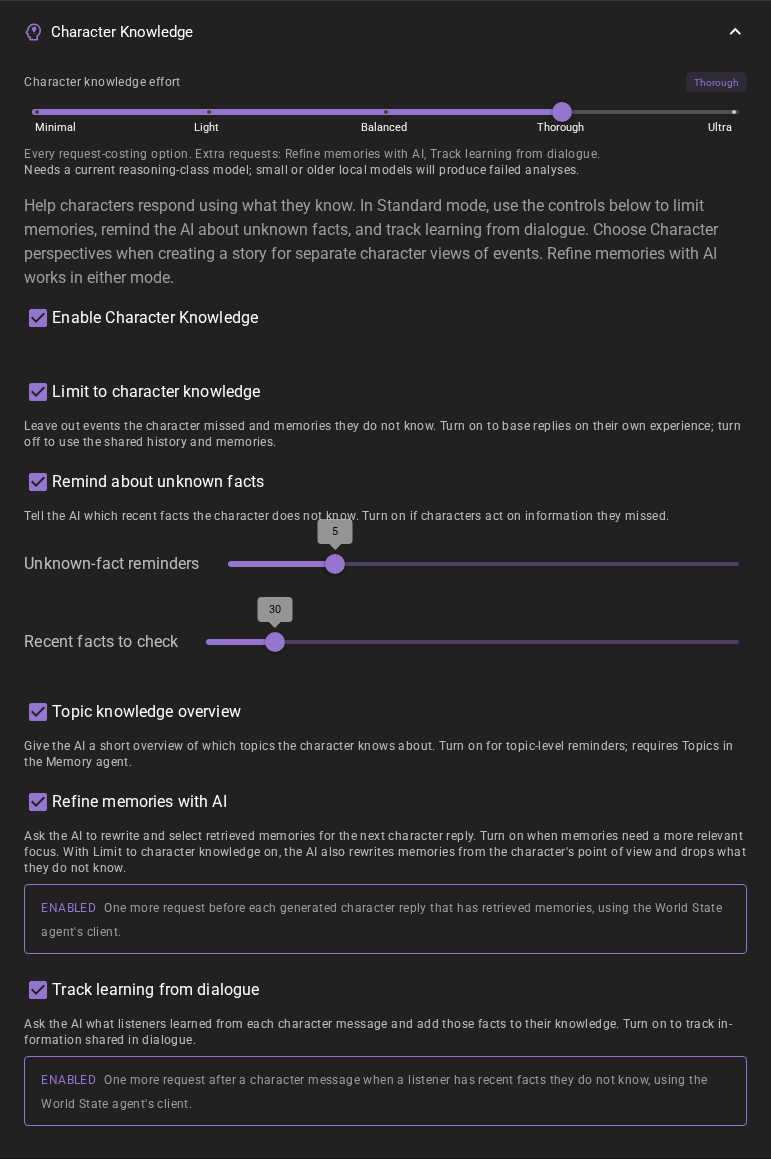
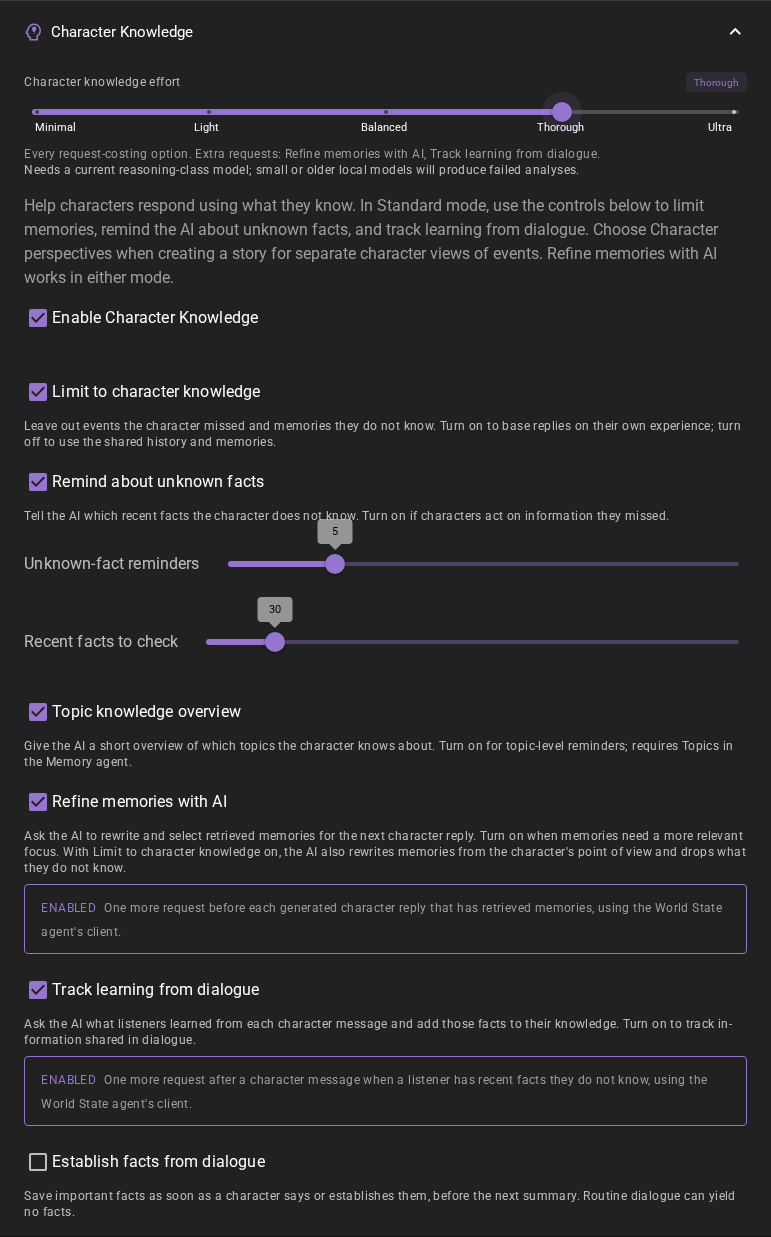
Docs: How character knowledge works page and knowledge docs pass (#514) (#517)
* docs: How character knowledge works page and knowledge docs pass (#514)

* docs: linked facts wording for the how-it-works page (#514, follows #520)

* docs: trim the how-it-works page to half its prose; Details expanders for power-user detail (#514)

diff --git a/docs/user-guide/world-editor/knowledge-how-it-works.md b/docs/user-guide/world-editor/knowledge-how-it-works.md
@@ -1,0 +1,169 @@
+# How character knowledge works
+
+Characters know what they were in the scene for, what you allow them to know, and what they were told. This page shows that flow, turn by turn, in both story modes. Settings are named as the app shows them; the [Knowledge](/talemate/user-guide/world-editor/knowledge/), [Conversation](/talemate/user-guide/agents/conversation/settings/#character-knowledge), [Summarizer](/talemate/user-guide/agents/summarizer/settings/#fact-chronology) and [Memory](/talemate/user-guide/agents/memory/settings/#retrieval) pages describe them, and the [knowledge hub](/talemate/user-guide/world-state/#knowledge-hub) gathers them in one menu.
+
+## The pieces
+
+- **Presence.** Every line records who was in the scene; a chapter summary records everyone who was there for any part of it.
+- **Facts.** Short statements the Summarizer records from a chapter, each **Routine (1)**, **State (2)** or **Milestone (3)**. Edit them in [History](/talemate/user-guide/world-editor/history/#facts).
+- **Known by.** Every sheet entry and world entry is known by everyone, only its owner (**Nobody** for a world entry), or specific characters. See [Visibility](/talemate/user-guide/world-editor/knowledge/#visibility).
+- **The character's knowledge.** All of the above plus what the story taught them; the [Knowledge tab](/talemate/user-guide/world-editor/knowledge/#topics-and-coverage) lists it.
+
+## Standard mode: one line is said
+
+Knowledge follows presence. Two switches add learning from dialogue; the chapter summary records facts.
+
+```mermaid
+flowchart TD
+    A["A character says a line"] --> B["The line joins the story,<br/>with everyone who was in the scene"]
+    B --> C{"Track learning from dialogue on?"}
+    C -- "no" --> Z["Nothing more this turn"]
+    C -- "yes" --> D{"Does a listener have recent<br/>recorded facts they do not know?"}
+    D -- "no" --> Z
+    D -- "yes" --> E["One request: which of those facts<br/>did the line make plain to each listener?"]
+    E --> F["Each listener now knows those facts"]
+    C -- "yes, and Establish facts<br/>from dialogue on" --> G["The same request also records<br/>new facts the line established"]
+    G --> H["New facts appear in History<br/>under Dialogue facts"]
+
+    S["Later: the Summarizer<br/>summarizes the chapter"] --> T{"Extract facts on?"}
+    T -- "no" --> Y["Summary only"]
+    T -- "yes" --> U["Up to 12 facts worth remembering,<br/>each Routine, State or Milestone"]
+    U --> V{"Does a fact repeat one<br/>already recorded?"}
+    V -- "yes" --> W["The recorded fact is refreshed:<br/>it counts as restated now,<br/>and everyone present learns it"]
+    V -- "no" --> X["A new fact, known to<br/>everyone who was present"]
+    X --> X2["A fact that updates an earlier one<br/>carries a link to that fact"]
+```
+
+**The line joins the story** with the list of who was in the scene, speaker included. Everyone on the list has heard it; nobody else has. A line with no presence list counts as heard by everyone.
+
+**Track learning from dialogue** (off by default) gathers the recent facts each listener does not know. If there are none, nothing is sent. Otherwise one request asks which of them the line made plain to each listener; those listeners now know them. A hint or a question does not count.
+
+**Establish facts from dialogue** (shows while Track learning is on) makes the same request also record new facts the line established, after every character line. They appear in History under **Dialogue facts**.
+
+**The chapter summary** records facts when **Extract facts** is on: up to twelve, only facts whose loss could make a later scene go wrong. Everyone present for the chapter knows them.
+
+**Restatements.** A fact that repeats a recorded one, within the **Fact matching tolerance**, is not stored twice: the recorded fact counts as restated now, so it is [fresh again](#facts-age), and anyone present learns it.
+
+**Linked facts.** A fact that updates an earlier one carries a link to it; History shows an arrow chip. A character who knows the newer fact no longer gets the older one in their reply; one who has not learned it still does. History and the Knowledge tab keep every fact and link.
+
+??? note "Details"
+    - A presence list is missing on lines from stories written before presence was recorded, and on lines said while no character is active; a summary that contains such a line is known to everyone.
+    - The speaker learns nothing from their own line. Learned facts leave the listener's unknown-fact reminders and enter their memory.
+    - A restatement keeps the fact's text, importance and original time.
+    - With **Show formerly clause** on (default, under Fact chronology), the newer fact carries the fact it updated as a short *formerly* clause of at most 240 characters, with no second time marker and no extra request. In a chain, only the last step shows.
+
+## Character perspectives mode: one line is said
+
+After every passage, Talemate writes what each character perceived, and replies are built from those views.
+
+```mermaid
+flowchart TD
+    A["A passage is finished:<br/>a character line, a player line or narration"] --> B["The passage joins the story,<br/>with everyone who was in the scene"]
+    B --> C["The Summarizer asks:<br/>what did each character perceive?<br/>One request for all of them"]
+    C --> D{"Is every character's view valid?"}
+    D -- "yes" --> E["Each character's view of the passage<br/>is stored beside it"]
+    D -- "no, and Automatically<br/>repair analysis on" --> F["One more request for<br/>the missing views only"]
+    F --> G{"Valid now?"}
+    G -- "yes" --> E
+    G -- "no" --> H["Generation error dialog:<br/>Retry, or stop.<br/>Nothing falls back to the reader's text"]
+    D -- "no" --> H
+    E --> I["The next reply reads the story<br/>through the character's own views"]
+
+    K["Known by on entries decides<br/>what a reply and a memory search<br/>may draw on"] -.-> I
+    L["Disclosures: Establish character knowledge<br/>gives one character information now"] -.-> C
+    E -.-> M["The character's memory holds<br/>only what they have evidence for"]
+```
+
+**The passage joins the story** with who was in the scene. Character lines, player lines, narration and tracker answers are passages; director notes are not.
+
+**What did each character perceive?** One request covers every active character and everyone present. Each gets a standalone view of what they could perceive, or an omitted view if nothing. The reader keeps the complete prose.
+
+**Repair and Retry.** When a view is missing or unreadable, **Automatically repair analysis** (on by default) sends one more request for it. If it still fails, the generation error dialog offers **Retry**; Cancel or Ignore stops the dependent generation. A character never falls back to the reader's text.
+
+**Private entries.** **Known by** decides which entries a reply and a memory search can draw on. The analysis still reads every sheet as background, so keep real secrets out of the scene description, the story intention and the sheet text.
+
+**Disclosures.** **Establish character knowledge** in the Knowledge tab gives a character selected information, or a whole entry, at this point in the story, without inventing dialogue. The director can do the same.
+
+**What the character remembers.** Only what they have evidence for: their views, summaries and disclosures, the entries they may know, and the facts drawn from their views. A memory search cannot grant more.
+
+**Retired here:** Track learning from dialogue, Establish facts from dialogue, Remind about unknown facts, Topic knowledge overview and Match known facts. Block rules cannot be created. **Refine memories with AI** stays.
+
+??? note "Details"
+    - The request carries what each character already knows from the previous passages and their disclosures, so a view never invents an observation to justify knowledge.
+    - When a chapter is summarized, each character gets a summary from their own views, once their views of the chapter are complete. Characters with identical views share one request. Facts from such a summary belong to those characters, and linked facts work as in Standard mode.
+    - With **Extract facts** on, a disclosure also becomes searchable facts.
+
+## What a character's reply is built from
+
+```mermaid
+flowchart LR
+    R["The character's reply"]
+    S["Character sheets<br/>Only entries the character may know<br/>(Known by, Allow / Block rules)"] --> R
+    H["The story so far"] --> R
+    H1["Standard: the shared story.<br/>With Limit to character knowledge on,<br/>the parts they missed become a gap line:<br/>(Name was elsewhere for 2 Days)"] --> H
+    H2["Character perspectives:<br/>their own views, their summaries<br/>and their disclosures, in story order"] --> H
+    M["Memories<br/>Only what the character may know,<br/>ranked by relevance and Recency weight,<br/>repeats dropped by the Diversity threshold,<br/>Cross-encoder rerank optional"] --> R
+    M1["Refine memories with AI (optional):<br/>one request rewrites the memories<br/>from the character's point of view"] --> M
+    F["Facts (Standard only)<br/>What the character does not know:<br/>Remind about unknown facts<br/>What they are aware of:<br/>Topic knowledge overview"] --> R
+    A["Scene Analysis (Standard only)<br/>The Summarizer's analysis lists the<br/>character's known and unknown facts"] --> R
+    T["Fact chronology<br/>Older facts fade unless they are<br/>important, restated, or about<br/>someone in the scene"] --> F
+    T --> M
+    T --> A
+```
+
+**Character sheets.** Only the entries the character may know; in Standard mode an Allow rule adds one and a Block rule removes one.
+
+**The story so far.** Standard mode uses the shared story; with **Limit to character knowledge** on, what the character missed becomes one gap line, such as *(Edwin was elsewhere for 2 Days)*. Character perspectives mode uses their own views, chapter summaries and disclosures, in story order.
+
+**Memories.** The Memory agent finds what fits the last lines among what the character may know, ranked by relevance; **Recency weight** moves newer ones up, the **Diversity threshold** drops near-repeats, and **Cross-encoder rerank** (off by default) reorders the top results locally. The result is cached until the story or the memory changes. **Refine memories with AI** adds one request that keeps the useful memories, rewritten from the character's point of view.
+
+**Facts and reminders (Standard only).** **Remind about unknown facts** lists the recent facts the character does not know, so the AI keeps them from acting on those. **Topic knowledge overview** states which topics they know all, some or nothing of. The Summarizer's Scene Analysis, when on for conversation, lists their known and unknown facts. No request is added.
+
+### Facts age
+
+A fact scores its importance divided by one plus its age over its half-life: **Milestone (3)** halves every 90 days, **State (2)** every 14, **Routine (1)** every 2, counted from the last restatement. Facts newer than the **Recent facts window** (3 days) always stay eligible; older ones need a score above the **Older facts score floor** (0.5) or must mention a character in the scene. Rendered facts carry a time such as *(21 Days ago)*. Aging never erases knowledge; the settings sit under [Fact chronology](/talemate/user-guide/agents/summarizer/settings/#fact-chronology).
+
+??? note "Details"
+    - Director notes and the character's own state notes stay in the story part.
+    - In Standard mode, **Match known facts** admits a memory of a missed event when it closely matches a fact the character knows. **Entity lookup** places a named absent character's description first. Editing a memory, a world entry or a character detail refreshes the cache.
+    - The unknown-fact list takes the newest **Recent facts to check** facts, ranks them by chronology and cuts to **Unknown-fact reminders**. The topic overview needs Topics in the Memory agent.
+    - With the defaults, a fact about absent people leaves the prompts after 3 days (Routine), 42 (State) or 450 (Milestone). The effort slider leaves these settings alone.
+
+## The effort slider and what it switches
+
+The **Character knowledge effort** slider sets the knowledge switches of the Conversation, Summarizer and Memory agents together; each stop adds to the one below it. It sits in the knowledge hub's **Thoroughness** section, the **Create New Story** dialog and the Conversation agent's settings. Change a switch by hand and it shows **Custom**.
+
+```mermaid
+flowchart LR
+    subgraph "Character perspectives"
+        direction TB
+        P1["Minimal<br/>The analysis after each passage"] --> P2["Light<br/>+ Topics"]
+        P2 --> P3["Balanced<br/>+ Extract facts<br/>+ Automatically repair analysis"]
+        P3 --> P4["Thorough<br/>+ Refine memories with AI"]
+    end
+    subgraph Standard
+        direction TB
+        S1["Minimal<br/>Character Knowledge<br/>Limit to character knowledge"] --> S2["Light<br/>+ Remind about unknown facts<br/>+ Topic knowledge overview<br/>+ Topics<br/>+ Match known facts<br/>+ Extract facts"]
+        S2 --> S3["Balanced<br/>+ Track learning from dialogue<br/>(one request)"]
+        S3 --> S4["Thorough<br/>+ Refine memories with AI<br/>(two requests)"]
+        S4 --> S5["Ultra<br/>Unknown-fact reminders 10<br/>Recent facts to check 100"]
+    end
+```
+
+In Standard mode, Light adds every helper that costs no request, Balanced one request, Thorough two, and Ultra wider reminders. In Character perspectives mode the analysis is mandatory, so Minimal is the floor and there is no Ultra. A new story starts on Balanced; switching modes carries the stop over, and Ultra lands on Thorough. The [Effort presets](/talemate/user-guide/world-editor/knowledge/#effort-presets) tables list every switch and the model each stop asks for.
+
+## Which mode to pick
+
+You choose the mode when you create the story; Scene Settings can change it until the story has lines or summarized chapters.
+
+```mermaid
+flowchart TD
+    Q1{"Is your model current and reliable?<br/>Structured output, a usable context<br/>of 16k tokens or more"} -- "no" --> STD["Standard<br/>Works with any model.<br/>Fix leaks by hand with Allow / Block rules."]
+    Q1 -- "yes" --> Q2{"Does the story depend on<br/>who knows what?"}
+    Q2 -- "no, few secrets" --> STD
+    Q2 -- "yes" --> Q3{"Are you fine with one extra<br/>request per passage?"}
+    Q3 -- "no" --> STD
+    Q3 -- "yes" --> CP["Character perspectives<br/>Secrets hold without hand-tuning.<br/>Cannot be turned off once<br/>the story has history."]
+```
+
+**Standard** costs nothing extra, works with any model and locks nothing in; a present character sees the full reader prose, so leaks are yours to catch with Allow / Block rules. **Character perspectives** grounds every reply in what the character perceived, so secrets hold; it costs one request per passage, needs a [strong model](/talemate/getting-started/model-expectations/) and cannot be turned off once the story has history. [Choosing a mode](/talemate/user-guide/world-editor/knowledge/#choosing-a-mode) has the full comparison.

diff --git a/docs/user-guide/world-editor/knowledge.md b/docs/user-guide/world-editor/knowledge.md
@@ -1,6 +1,6 @@
 # Knowledge
 
-The World State panel offers a [knowledge hub](/talemate/user-guide/world-state/#knowledge-hub) on every character row: the character’s known facts ranked by importance and recency and their disclosures or access rules, the Character perspectives switch, and the agent settings that shape knowledge keeping, without leaving the main view. The sections below describe the settings themselves.
+The World State panel offers a [knowledge hub](/talemate/user-guide/world-state/#knowledge-hub) on every character row: the character’s known facts ranked by importance and recency and their disclosures or access rules, the Character perspectives switch, and the agent settings that shape knowledge keeping, without leaving the main view. The sections below describe the settings themselves. [How character knowledge works](/talemate/user-guide/world-editor/knowledge-how-it-works/) shows the flow behind them, with diagrams.
 
 ## Choosing a mode
 
@@ -98,7 +98,7 @@ Character descriptions, attributes, details and world entries have **Known by** 
 - **Only [character]**: keep the entry private to its character owner. World entries have no owner, so this option reads **Nobody**.
 - **Specific characters**: share the entry with its owner and the characters you choose. Select names in the **Characters** field. Explicit access rules can also give other characters access.
 
-Set visibility in the Characters or World tab. It governs authored inputs, pins and retrieval. Generated reinforcements also need a current audience view; visibility alone cannot expose their withheld full answer. The director's `set_known_by` uses the same visibility settings and normal write confirmation.
+Set visibility in the Characters or World tab. It governs authored inputs, pins and retrieval. Generated reinforcements also need a current audience view; visibility alone cannot expose their withheld full answer. The director can set **Known by** for you as well, through its usual write confirmation.
 
 ## Explicit disclosures
 
@@ -106,7 +106,7 @@ In a perception scene, **Characters → Knowledge → Establish character knowle
 
 **Give the whole entry** is off by default. **Give all entry content** explicitly copies all current source text, including private details. Neither choice grants access to future edits. Invalid sources and unknown characters are rejected before content is added. Earlier perspectives stay unchanged; the disclosure appears in subsequent context and survives saves, source edits and fact regeneration.
 
-This is author establishment: no dialogue or discovery event is invented. The director's `grant_knowledge` uses the same operation, with `information` for selected text or explicit `whole_entry: true`. Removing an additional access rule does not erase information already given to the character. Revokes are unavailable in this mode, including node and API writes.
+This is author establishment: no dialogue or discovery event is invented. The director can give a disclosure the same way, with selected information or the whole entry. Removing an additional access rule does not erase information already given to the character. Revokes are unavailable in this mode, including node and API writes.
 
 When **Extract facts** is enabled, the information also becomes searchable facts. If that step fails, the information is still saved. Follow the [cost and recovery guidance](#cost-and-recovery) to recover its facts.
 
@@ -144,4 +144,4 @@ Turn on **Limit to character knowledge** to omit events the character missed. If
 
 In **Characters → Knowledge → Adjust entry knowledge**, select an **Entry**, choose **Allow** or **Block** under **Action**, and click **Apply**. Use Allow to add the entry to the character's knowledge; use Block to keep it out. **Note (optional)** records your reason. Select an actual autocomplete result; typing alone does not choose an entry. Block takes precedence over Allow. Remove a rule to return to the remaining knowledge rules; removing it keeps the source entry.
 
-The director's `grant_knowledge` and `revoke_knowledge` use normal confirmation and replace the previous rule for that character and entry. The API and saved data still call Allow rules `grant` and Block rules `revoke`.
+The director can add an Allow or Block rule the same way, through its usual confirmation. A new rule replaces the previous rule for that character and entry.

diff --git a/docs/user-guide/agents/summarizer/settings.md b/docs/user-guide/agents/summarizer/settings.md
@@ -47,7 +47,7 @@ Writing style instructions are also included during summarization to maintain co
 
 Save individual facts alongside summaries for character knowledge. **Leave on to build the fact record**; this summary step needs no extra request. On by default. With this off, regenerating an entry leaves its recorded facts as they are. See [History — Facts](/talemate/user-guide/world-editor/history/#facts).
 
-Extraction asks for facts whose omission could make a later scene go wrong, allowing **0–12 facts per chapter**. A first hug can be a relationship milestone; a routine greeting hug is not a new fact. Each fact receives an **importance** of Routine (1), State (2), or Milestone (3) in the same response. These are model judgments that can be corrected in History; facts saved before importance was added default to State (2).
+[How character knowledge works](/talemate/user-guide/world-editor/knowledge-how-it-works/#standard-mode-one-line-is-said) shows who learns a chapter's facts. Extraction asks for facts whose omission could make a later scene go wrong, allowing **0–12 facts per chapter**. A first hug can be a relationship milestone; a routine greeting hug is not a new fact. Each fact receives an **importance** of Routine (1), State (2), or Milestone (3) in the same response. These are model judgments that can be corrected in History; facts saved before importance was added default to State (2).
 
 ###### Fact matching tolerance
 
@@ -57,7 +57,9 @@ This is the maximum distance allowed between facts as measured by the embedding 
 
 ## Fact chronology
 
-Fact chronology selects context facts by importance and age without a separate AI request. The **Character knowledge effort** slider leaves these settings untouched; you can also override them for one scene.
+Fact chronology selects context facts by importance and age without a separate AI request. The **Character knowledge effort** slider leaves these settings untouched; you can also override them for one scene. [Facts age](/talemate/user-guide/world-editor/knowledge-how-it-works/#facts-age) explains it in plain words.
+
+![Summarizer agent fact chronology settings](/talemate/img/0.40.0/summarizer-fact-chronology-settings.png)
 
 | Setting | Default | Meaning |
 | --- | --- | --- |
@@ -81,6 +83,9 @@ The Character Perspectives section is visible with any scene or with no scene lo
 Its settings only affect scenes using character perspectives.
 Automatic repair can add one Summarizer request when a view is missing or invalid.
 The same toggle and cost note are available in the World State knowledge hub.
+[How character knowledge works](/talemate/user-guide/world-editor/knowledge-how-it-works/#character-perspectives-mode-one-line-is-said) shows the analysis, repair and Retry flow.
+
+![Summarizer agent character perspectives settings](/talemate/img/0.40.0/summarizer-character-perspectives-settings.png)
 
 ##### Automatically repair analysis
 

diff --git a/docs/user-guide/world-editor/history/index.md b/docs/user-guide/world-editor/history/index.md
@@ -28,9 +28,11 @@ The **Known by** selector above the entries narrows the listed facts to those a 
 
 ![history known by filter](/talemate/img/0.40.0/world-editor-history-known-by.png)
 
+![history facts with importance and time markers](/talemate/img/0.40.0/world-editor-history-facts.png)
+
 The importance chip shows **Routine (1)** for a smaller continuity-relevant detail, **State (2)** for a durable change, or **Milestone (3)** for firsts, revelations, deaths, and story-changing decisions. Hover it for an explanation. The extraction prompt asks the model to omit trivia and allows an empty facts list: a first hug may matter, while another routine hug does not. Facts saved before importance was added load as State (2).
 
-Each fact also shows a relative time marker based on scene time and its latest restatement, such as **(21 Days ago)**. History keeps the full fact record; the Summarizer's [Fact chronology](/talemate/user-guide/agents/summarizer/settings/#fact-chronology) settings select and rank context facts without a separate AI request.
+Each fact also shows a relative time marker based on scene time and its latest restatement, such as **(21 Days ago)**. History keeps the full fact record; the Summarizer's [Fact chronology](/talemate/user-guide/agents/summarizer/settings/#fact-chronology) settings select and rank context facts without a separate AI request. [How character knowledge works](/talemate/user-guide/world-editor/knowledge-how-it-works/#standard-mode-one-line-is-said) shows how facts are recorded, restated and aged.
 
 Double-click a fact or select its importance chip to edit its text and importance, then select **Save**. A later restatement preserves the original fact's importance, including a manual correction. Use the :material-close: button to remove a fact. When the model's facts output could not be read, the summary is still stored and the entry shows a **facts failed** chip; **:material-format-list-checks: Regenerate facts** asks for the facts again and keeps the entry text. Regenerating the entry itself replaces its facts too. The summarizer's **Extract facts** setting turns the archive extraction off.
 

diff --git a/docs/user-guide/agents/conversation/settings.md b/docs/user-guide/agents/conversation/settings.md
@@ -86,7 +86,7 @@ Disable this if you want the AI to generate dialogue without following the scene
 
 The section opens with the **Character knowledge effort** slider. One stop sets this group and the Summarizer and Memory knowledge settings together, as an unsaved edit of this page; see [Effort presets](/talemate/user-guide/world-editor/knowledge/#effort-presets) for what each stop turns on and what it asks of your model.
 
-Help characters respond using what they know. In **Standard** mode, use this group to limit memories, remind the AI about unknown facts, and track learning from dialogue. The controls below apply to Standard mode unless stated otherwise.
+Help characters respond using what they know. In **Standard** mode, use this group to limit memories, remind the AI about unknown facts, and track learning from dialogue. The controls below apply to Standard mode unless stated otherwise. [How character knowledge works](/talemate/user-guide/world-editor/knowledge-how-it-works/) shows what each switch does, with diagrams.
 
 The **Character Knowledge** master switch also supplies **Known facts** and **Unknown recent facts** to the Summarizer's [conversation analysis](/talemate/user-guide/agents/summarizer/settings/#conversation), when Scene Analysis is enabled. These lists apply even if **Limit to character knowledge** or **Remind about unknown facts** is off. Turning the master switch off removes them. Each list uses up to one sixth of the analysis client's context budget, plus headings, reserved from scene history; they add no AI request and are omitted when neither list has facts that fit.
 

diff --git a/docs/user-guide/agents/memory/settings.md b/docs/user-guide/agents/memory/settings.md
@@ -45,7 +45,9 @@ If most facts land in one topic, try raising the value. If nearly every fact has
 
 ## :material-filter-variant: Retrieval
 
-How similarity results are ranked and merged before they reach a prompt. Nothing in this group adds a request; the cross-encoder runs a local model.
+![Memory agent Retrieval settings](/talemate/img/0.40.0/memory-retrieval-settings.png)
+
+How similarity results are ranked and merged before they reach a prompt. Nothing in this group adds a request; the cross-encoder runs a local model. [How character knowledge works](/talemate/user-guide/world-editor/knowledge-how-it-works/#what-a-characters-reply-is-built-from) shows where the memories land in a reply.
 
 Retrieval controls the order of search results through query relevance, the recency weight and the optional cross-encoder rerank. The Summarizer's [Fact chronology](/talemate/user-guide/agents/summarizer/settings/#fact-chronology) rules remove ineligible facts and add relative time markers while preserving that retrieval order. A fact's chronology score does not move it ahead of a more relevant retrieved result. Character knowledge filtering still determines access before facts can enter a character's prompt.
 

diff --git a/docs/user-guide/world-state.md b/docs/user-guide/world-state.md
@@ -140,7 +140,7 @@ Expand an active character and click the :material-head-lightbulb-outline: icon 
 row to open the **knowledge hub**, a menu that gathers what the system does for that character's
 knowledge. In the **Inactive** section, the same icon sits at the right edge of each character's
 row, beside the call-into-scene button.
-Background characters have no hub, since they are not characters yet. The menu stays open while
+[How character knowledge works](/talemate/user-guide/world-editor/knowledge-how-it-works/) shows what these settings do, with diagrams. Background characters have no hub, since they are not characters yet. The menu stays open while
 you click inside it; press Escape or click elsewhere to close it. It adds no AI requests: it
 reads the current state and writes settings.
 

diff --git a/docs/user-guide/world-editor/characters/description.md b/docs/user-guide/world-editor/characters/description.md
@@ -9,3 +9,7 @@ To change the description of a character, open the :material-earth-box: **World 
 Type in the new description in the input field. You don't need to confirm the changes, they are applied automatically as you write. However, if your scene auto-save is disabled, you will need to save the scene to keep the changes.
 
 --8<-- "docs/snippets/tips.md:generate_and_autocomplete"
+
+## Known by
+
+Every description has a **Known by** setting: **Everyone** (the default), **Only [character]**, or **Specific characters**. Other characters cannot draw on an entry they may not know; the character always can. See [Visibility](/talemate/user-guide/world-editor/knowledge/#visibility) and [How character knowledge works](/talemate/user-guide/world-editor/knowledge-how-it-works/).

diff --git a/docs/user-guide/world-editor/characters/attributes.md b/docs/user-guide/world-editor/characters/attributes.md
@@ -58,3 +58,7 @@ Attributes will be generated one by one and added to the list. The interface is 
 Depending on how many attributes are generated, this can take a moment.
 
 --8<-- "docs/snippets/tips.md:generation_templates_and_settings"
+
+## Known by
+
+Every attribute has a **Known by** setting: **Everyone** (the default), **Only [character]**, or **Specific characters**. Other characters cannot draw on an entry they may not know; the character always can. See [Visibility](/talemate/user-guide/world-editor/knowledge/#visibility) and [How character knowledge works](/talemate/user-guide/world-editor/knowledge-how-it-works/).

diff --git a/docs/user-guide/world-editor/characters/details.md b/docs/user-guide/world-editor/characters/details.md
@@ -86,3 +86,7 @@ Details will be generated one by one and added to the list. The interface is loc
 Depending on how many details are generated, this can take a moment.
 
 --8<-- "docs/snippets/tips.md:generation_templates_and_settings"
+
+## Known by
+
+Every detail has a **Known by** setting: **Everyone** (the default), **Only [character]**, or **Specific characters**. Other characters cannot draw on an entry they may not know; the character always can. See [Visibility](/talemate/user-guide/world-editor/knowledge/#visibility) and [How character knowledge works](/talemate/user-guide/world-editor/knowledge-how-it-works/).
